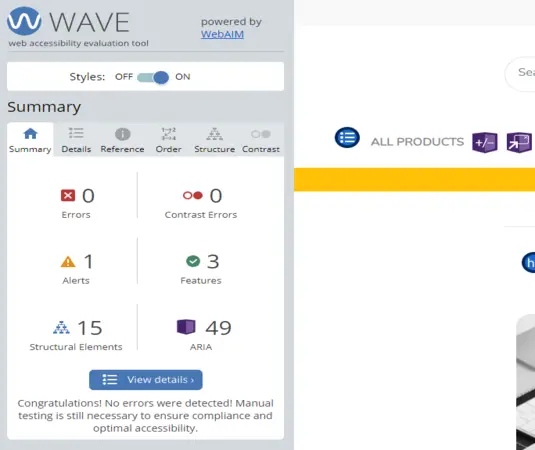
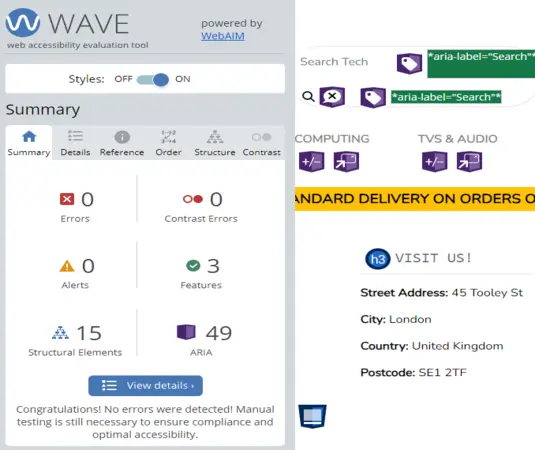
add new images to readme and fix about alerts

diff --git a/about/templates/about/about.html b/about/templates/about/about.html
@@ -50,7 +50,7 @@
         <div class="col-12 col-md-10 offset-md-1 mt-3 mb-3 d-lg-flex">
             <hr>
             <div class="col-12 col-lg-6">
-                <h5 class="text-muted text-monospace text-uppercase mb-0">Visit Us!</h5>
+                <h3 class="text-muted text-monospace text-uppercase mb-0" style="font-size: 20px;">Visit Us!</h3>
                 <hr class="mt-0">
                 {% if about.street_address_1 %}
                 <p><strong>Street Address: </strong>{{ about.street_address_1 }}</p>
@@ -69,7 +69,7 @@
                 {% endif %}
             </div>
             <div class="col-12 col-lg-6">
-                <h5 class="text-muted text-monospace text-uppercase mb-0">Opening Hours</h5>
+                <h3 class="text-muted text-monospace text-uppercase mb-0" style="font-size: 20px;">Opening Hours</h3>
                 <hr class="mt-0">
                 {% if about.opening_hours_mon_to_fri %}
                 <p><strong>Mon - Fri: </strong>{{ about.opening_hours_mon_to_fri }}</p>
